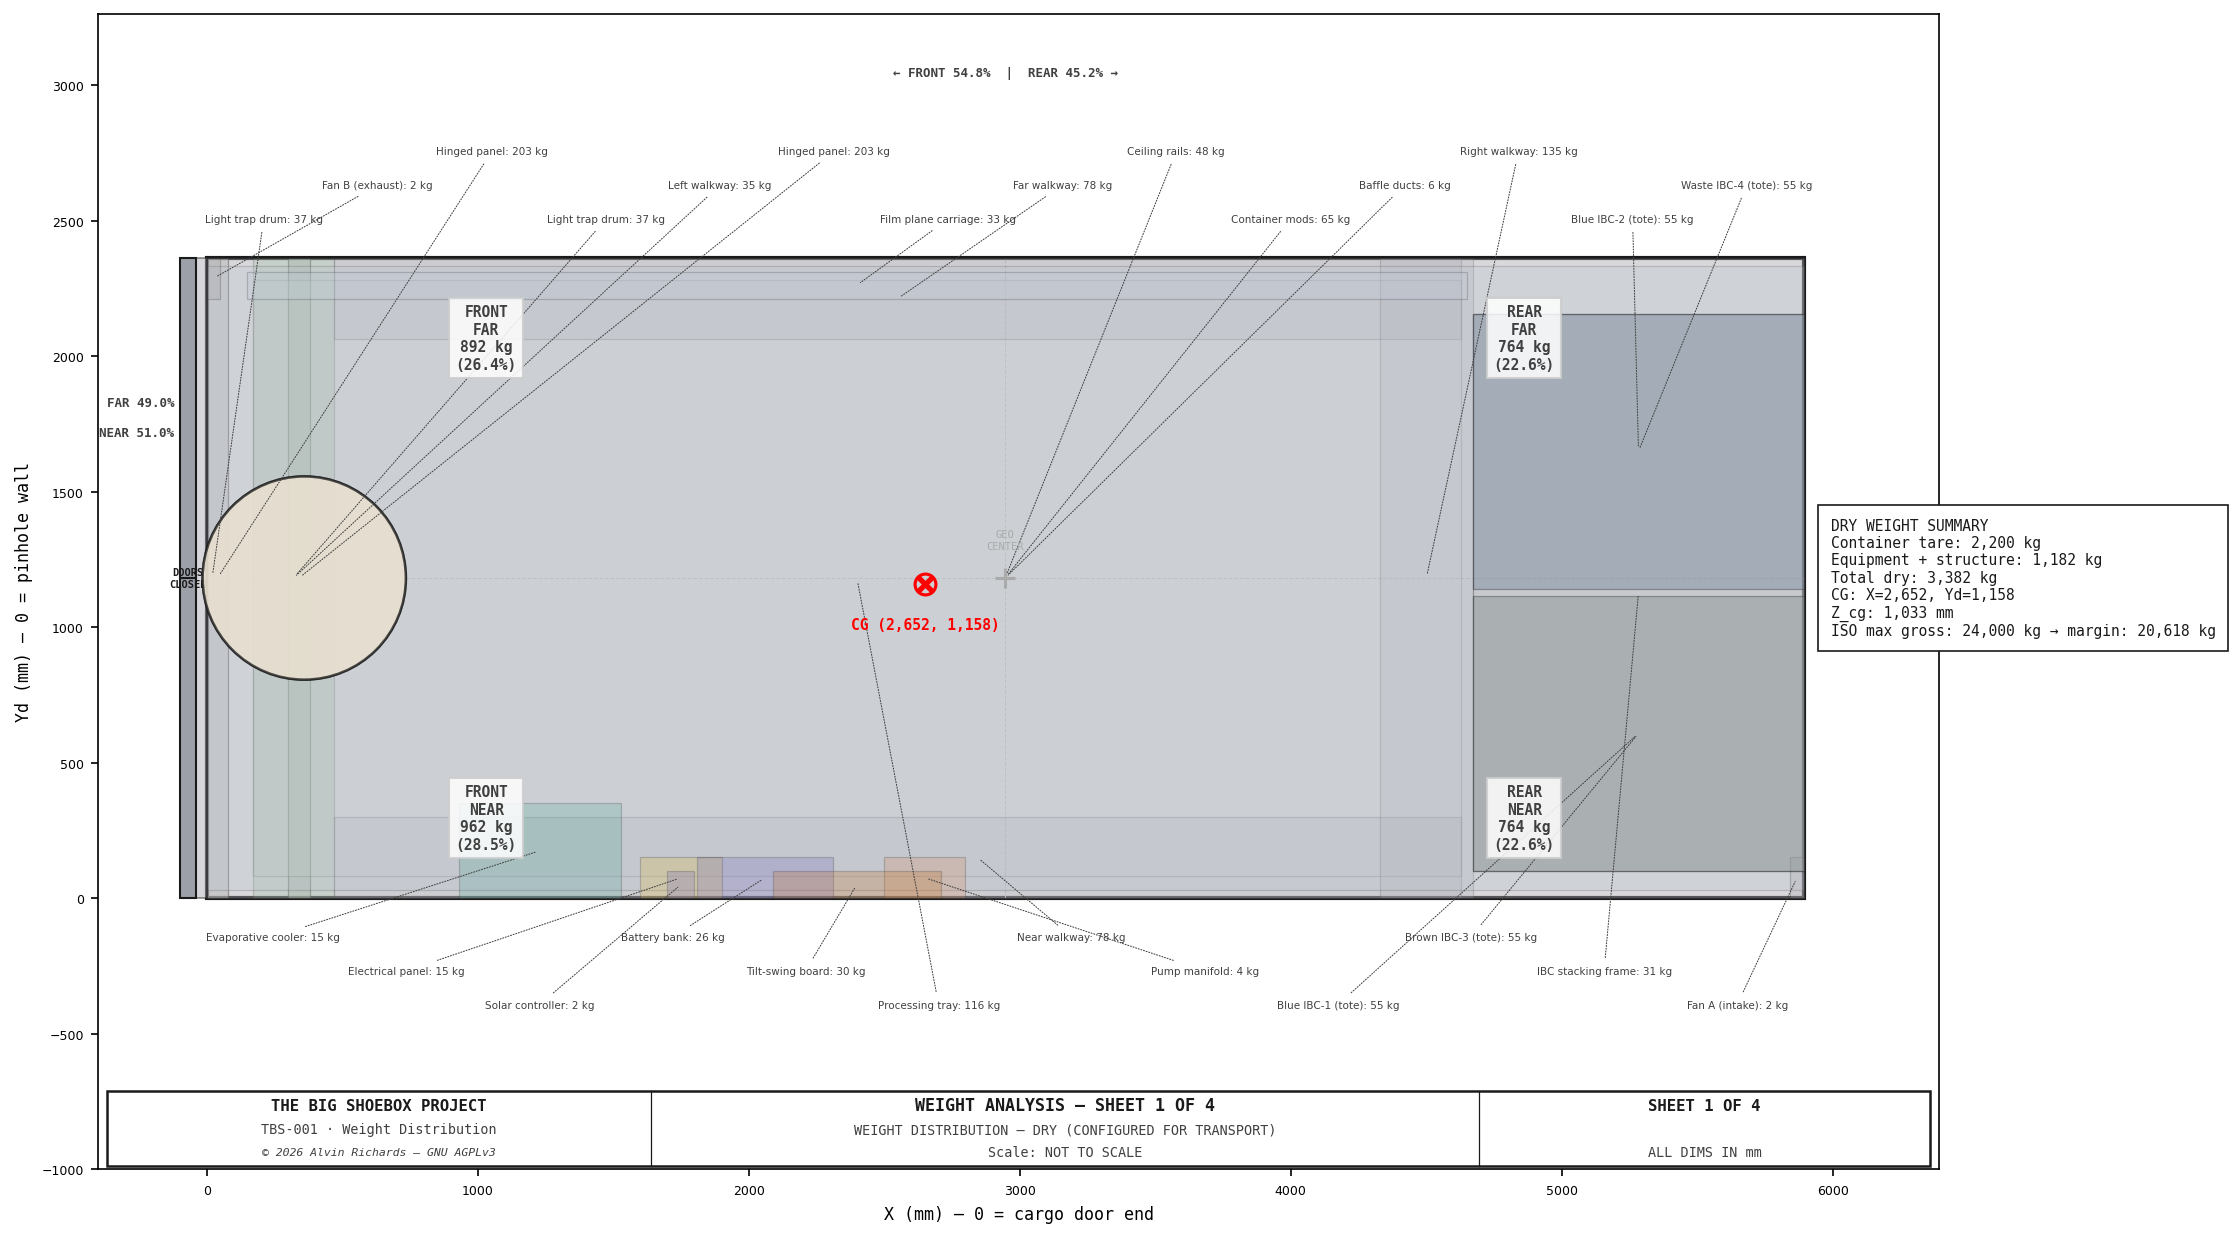
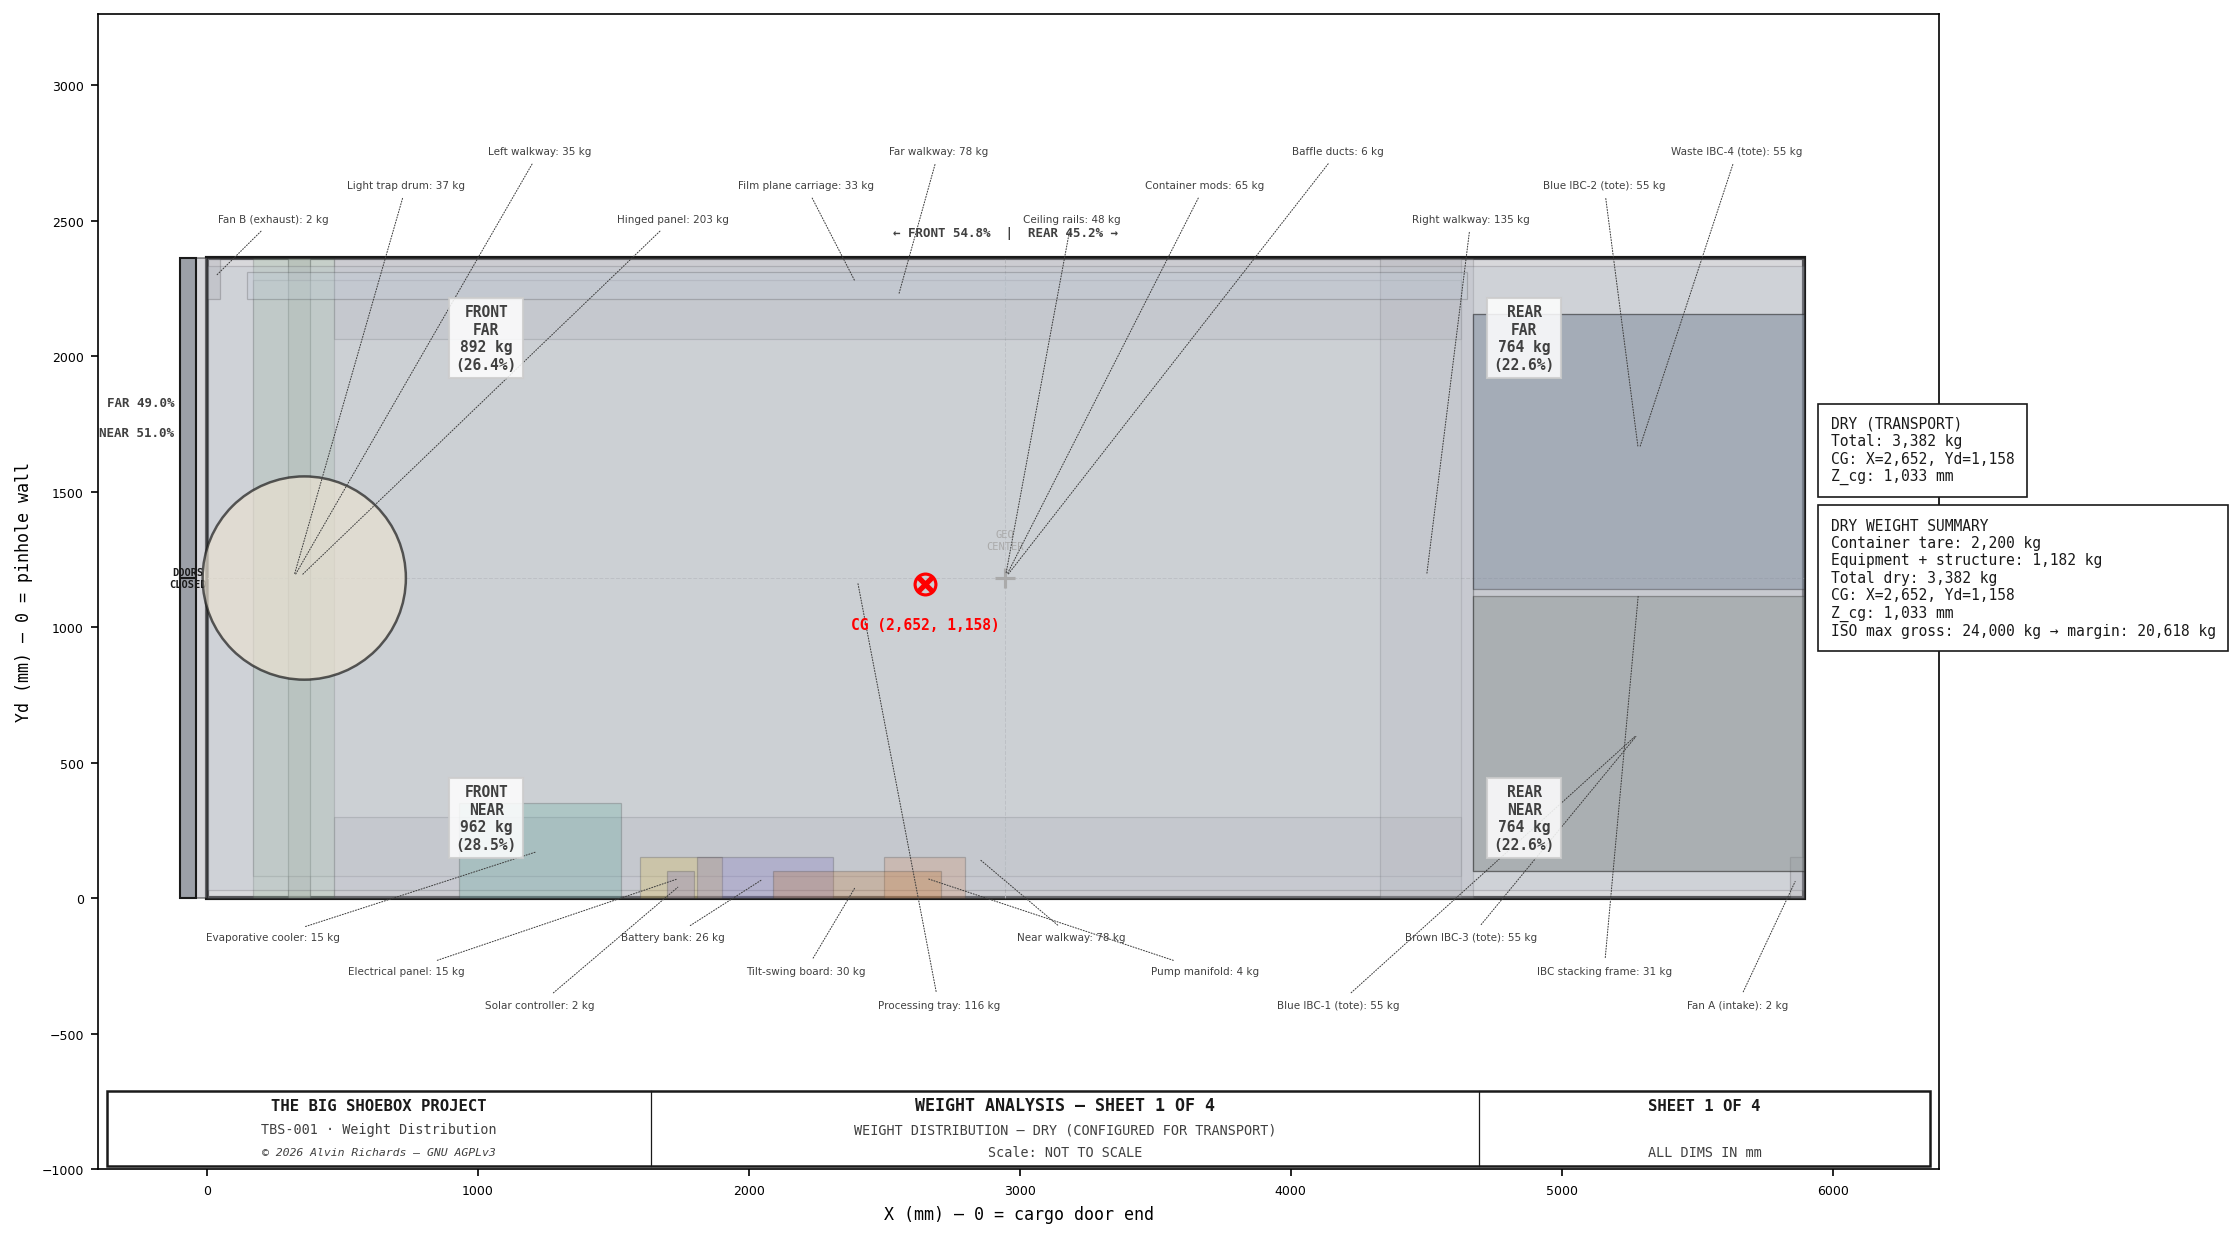
Refactor sheet 1 to use _draw_state_diagram shared helper
Sheet 1 now calls _draw_state_diagram like sheets 2/3, removing
duplicated rendering logic for container outline, cargo doors,
component drawing, drum circle, CG marker, geo center, quadrant
labels, and edge splits. Sheet 1 adds leader labels and a more
detailed summary box on top of the shared base.

diff --git a/generate_weight_analysis.py b/generate_weight_analysis.py
@@ -646,42 +646,19 @@ def _draw_quadrant_labels(ax, quads, total):
 
 def sheet1(components):
     """Sheet 1: Weight Distribution — Dry, configured for transport."""
-    dry = [c for c in components
-           if c.category not in ("liquid", "container")]
-
     fig, ax = plt.subplots(figsize=(18, 10))
-    _draw_container_outline(ax)
-    _draw_cargo_doors(ax, closed=True)
+    total_dry, x_cg, yd_cg, z_cg = _draw_state_diagram(
+        ax, components, "dry", "DRY (TRANSPORT)")
 
-    # Draw each component (no inline labels — all via leaders)
-    # Draw components using same visual style as sheets 2/3
-    # Panel first (slightly more visible), then drum, then everything else faded
-    highlight_names = {"Hinged panel", "Light trap drum"}
-    panel = [c for c in dry if c.name == "Hinged panel"]
-    others = [c for c in dry
-              if c.name not in highlight_names]
-    for c in panel:
-        _draw_component(ax, c, alpha=0.5, show_label=False)
-    # Drum as circle
-    for c in dry:
-        if c.name == "Light trap drum":
-            drum_cx = PANEL_SLIDE + PANEL_CENTER_T / 2  # transport position
-            drum_cy = C_WID / 2
-            ax.add_patch(Circle((drum_cx, drum_cy), DRUM_R,
-                         fc=C_LT_DRUM, ec=C_OUT, lw=1.2, alpha=0.7, zorder=7))
-    # All other components
-    for c in others:
-        _draw_component(ax, c, alpha=0.25, show_label=False)
-
-    # Leader labels for ALL components — split near-side and far-side
-    near_comps = [c for c in dry if c.yd_cg < C_WID / 2]
-    far_comps = [c for c in dry if c.yd_cg >= C_WID / 2]
-    # Sort each group by X centroid for tidy leader lines
-    near_comps.sort(key=lambda c: c.x_cg)
-    far_comps.sort(key=lambda c: c.x_cg)
+    # Leader labels for ALL non-container/non-liquid components
+    dry = [c for c in filter_state(components, "dry")
+           if c.category not in ("liquid", "container")]
+    near_comps = sorted([c for c in dry if c.yd_cg < C_WID / 2],
+                        key=lambda c: c.x_cg)
+    far_comps = sorted([c for c in dry if c.yd_cg >= C_WID / 2],
+                       key=lambda c: c.x_cg)
 
     # Near-side labels below the container
-    # Per-component leader tip X overrides (fraction of C_LEN to add)
     tip_x_nudge = {"Near walkway": 0.05}
     base_y_below = -125
     n_near = max(len(near_comps), 1)
@@ -707,44 +684,8 @@ def sheet1(components):
         leader(ax, c.x_cg, c.yd_cg, lx, ly, lbl,
                fs=5, color=C_DIM, ha="center", va="bottom", lw=0.5)
 
-    # Weight distribution — CG, quadrants, splits (same as sheets 2/3)
-    dry_active = filter_state(components, "dry")
-    total_dry, x_cg, yd_cg, z_cg = compute_cg(dry_active)
-    quads = compute_quadrants(dry_active)
-    splits = compute_splits(quads, total_dry)
-
-    _draw_cg_marker(ax, x_cg, yd_cg,
-                    label=f"CG ({x_cg:,.0f}, {yd_cg:,.0f})")
-
-    # Geometric center
-    ax.plot(C_LEN / 2, C_WID / 2, "+", color="#AAAAAA", ms=10, mew=1.5,
-            zorder=15)
-    ax.text(C_LEN / 2, C_WID / 2 + 100, "GEO\nCENTER", ha="center",
-            va="bottom", fontsize=5, color="#AAAAAA", zorder=15, **_FONT)
-
-    _draw_quadrant_labels(ax, quads, total_dry)
-
-    # Edge split labels
-    ax.text(C_LEN / 2, C_WID * 1.3,
-            f"← FRONT {splits['front_pct']:.1f}%  |  "
-            f"REAR {splits['rear_pct']:.1f}% →",
-            ha="center", va="top", fontsize=6, color=C_DIM,
-            fontweight="bold", zorder=25, **_FONT)
-    ax.text(-120, C_WID * 0.75,
-            f"FAR {splits['far_pct']:.1f}%\n\n"
-            f"NEAR {splits['near_pct']:.1f}%",
-            ha="right", va="center", fontsize=6, color=C_DIM,
-            fontweight="bold", zorder=25, **_FONT)
-
-    # Axes setup
-    ax.set_xlim(-400, C_LEN + 500)
-    ax.set_ylim(-1000, C_WID + 900)
-    ax.set_aspect("equal")
-    ax.set_xlabel("X (mm) — 0 = cargo door end", fontsize=8, **_FONT)
-    ax.set_ylabel("Yd (mm) — 0 = pinhole wall", fontsize=8, **_FONT)
-    ax.tick_params(labelsize=6)
-
-    # Summary box
+    # Replace the default info box with a more detailed summary
+    # (draw over the one placed by _draw_state_diagram)
     info = (f"DRY WEIGHT SUMMARY\n"
             f"Container tare: 2,200 kg\n"
             f"Equipment + structure: {total_dry - 2200:,.0f} kg\n"
@@ -755,6 +696,13 @@ def sheet1(components):
     ax.text(C_LEN + 100, C_WID * 0.5, info, fontsize=7, color=C_OUT,
             va="center", ha="left", **_FONT,
             bbox=dict(fc="white", ec=C_OUT, lw=0.8, pad=6))
+
+    ax.set_xlim(-400, C_LEN + 500)
+    ax.set_ylim(-1000, C_WID + 900)
+    ax.set_aspect("equal")
+    ax.set_xlabel("X (mm) — 0 = cargo door end", fontsize=8, **_FONT)
+    ax.set_ylabel("Yd (mm) — 0 = pinhole wall", fontsize=8, **_FONT)
+    ax.tick_params(labelsize=6)
 
     title_block(ax, "SHEET 1 OF 4",
                 drawing_title="WEIGHT ANALYSIS",
